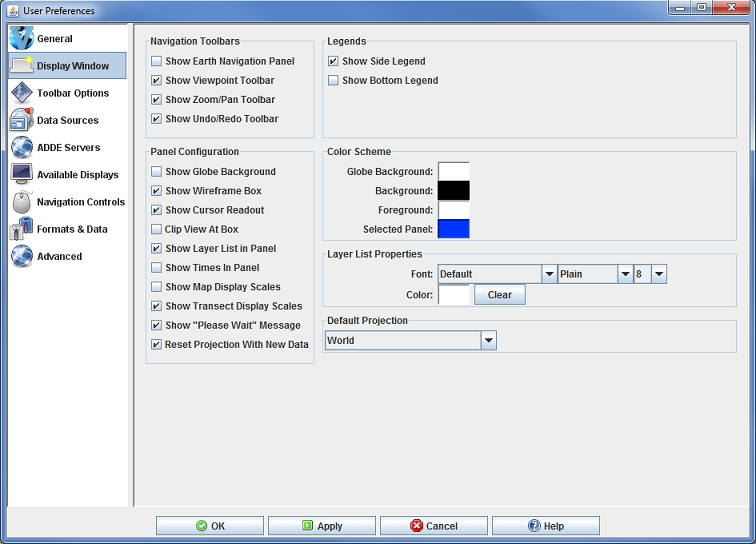
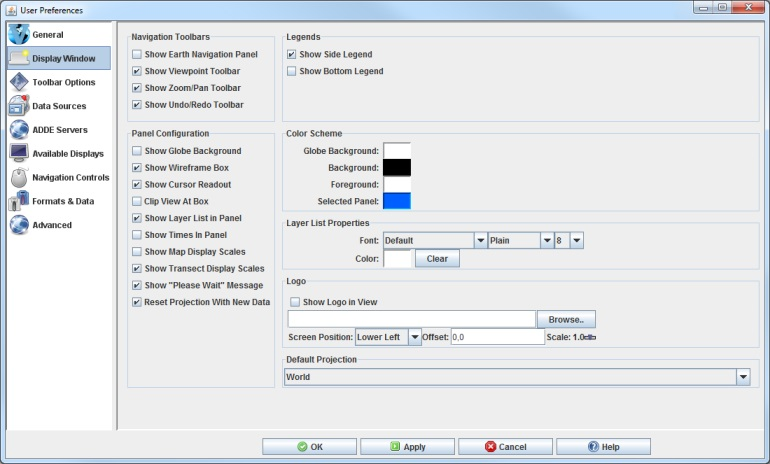
[0] Dreamweaver updates synced from web server.

Changed region(s): [[0.0, 0.0, 1.0, 1.0]]

diff --git a/docs/userguide/processed/tools/preferences/DisplayWindowPreferences.html b/docs/userguide/processed/tools/preferences/DisplayWindowPreferences.html
@@ -32,8 +32,7 @@ function setParentPage() { if (parent.setPage) parent.setPage('tools/preferences
 <div class="pagetitle">Display Window Preferences</div>
 <p>The User Preferences window is accessed in the Main Display window through the <strong>Edit-&gt;Preferences</strong> menu.  The <strong>Display Window</strong> tab allows the user to set preferences related to the Main Display window. The image below represents the default settings for the <strong>Display Window</strong> tab.</p>
 <a name="image1" id="image1"></a>
-<div class="images"><img src="../images/NewPictures/DisplayWindowPrefs.jpg" alt="Image 1: Display Window Preferences (Default)">
-  <br>
+<div class="images"><img src="../images/NewPictures/DisplayWindowPrefs.jpg" width="770" height="464" alt="Image 1: Display Window Preferences (Default)"><br>
 <span class="caption">Image 1: Display Window Preferences (Default)</span></div>
 <div class="pagesubtitle">
   <p>Navigation Toolbars</p>
@@ -92,6 +91,14 @@ function setParentPage() { if (parent.setPage) parent.setPage('tools/preferences
 <ul class="propertylist">
   <li class="propertylistitem"><b>Font - </b>Sets the style of the text at the bottom of the Main Display window listing the layers. Using the dropdown lists, the user can define the font, style, and size of text.</li>
   <li class="propertylistitem"><b>Color -</b> Sets the color of the text at the bottom of the Main Display window.</li>
+</ul>
+<div class="pagesubtitle">Logo</div>
+<ul class="propertylist">
+  <li class="propertylistitem"><b>Show Logo in View - </b>Sets the visibility of the logo in the Main Display.</li>
+  <li class="propertylistitem"><strong>File -</strong> Sets the logo file to use. This can be an image file with the form of *.jpg, *.gif, or *.png.</li>
+  <li class="propertylistitem"><strong>Screen Position -</strong> Sets the position of the logo in the Main Display. This can be  Lower Left, Upper Left, Upper Right, Lower Right, or Center.</li>
+  <li class="propertylistitem"><b>Offset -</b> Sets the x,y pixel offset value from the <strong>Screen Position</strong> field. For example, to place a logo in the lower left of the display, but with a 10 pixel offset between the logo and the boarder of the window, you can specify a <strong>Screen Position</strong> of Lower Left with an <strong>Offset</strong> of 10,-10.</li>
+  <li class="propertylistitem"><strong>Scale -</strong> Sets the size of the logo in the display. A <strong>Scale</strong> of 1 would be the actual size of the image, anything less than 1 will scale the image down to make it smaller, and values greater than 1 will scale the image up to make it larger.</li>
 </ul>
 <div class="pagesubtitle">Default Projection</div>
 <ul class="propertylist">

diff --git a/docs/userguide/processed/Faq.html b/docs/userguide/processed/Faq.html
@@ -284,7 +284,12 @@ function setParentPage() { if (parent.setPage) parent.setPage('Faq.html',true); 
             <ul class="noindent">
           <li><a class="faq-question-link" href="RunTimeFaq.html#dri">Why do I get an error
               that starts something like &quot;Unexpected Signal : 11 occurred
-              at PC=0x6F79CE1&quot; when starting McIDAS-V under Linux?</a></li>
+              at PC=0x6F79CE1&quot; when starting McIDAS-V under Linux?</a></li></ul>
+  </ul>
+        </div>
+        <div class="faq-question">
+            <ul class="noindent">
+          <li><a class="faq-question-link" href="RunTimeFaq.html#typeError">Why do I see "TypeError: object is not callable" messages when scripting?</a></li>
         </ul>
   </div>
 </div>

diff --git a/docs/userguide/processed/RunTimeFaq.html b/docs/userguide/processed/RunTimeFaq.html
@@ -260,6 +260,12 @@ application/x-java-jnlp-file JNLP
       <div style="margin-left: 2em">Load <span class="faq-answer">&quot;</span>dri<span class="faq-answer">&quot;</span></div>
       <p>in your X server configuration file (xorg.conf or XF86Config).</p>
     </div>
+    <a name="typeError" id="typeError"></a>
+    <div class="faq-question">
+      <h4>Q. Why do I see "TypeError: object is not callable" messages when scripting?</h4></div>
+<div class="faq-answer">
+    <p><strong>A.</strong> This error occurs when a user gives a variable the same name as a reserved keyword or function. Variable names should be unique.</p>
+</div>
 </div>
 <!-- InstanceEndEditable -->
 <div class="BottomTitleNav">
